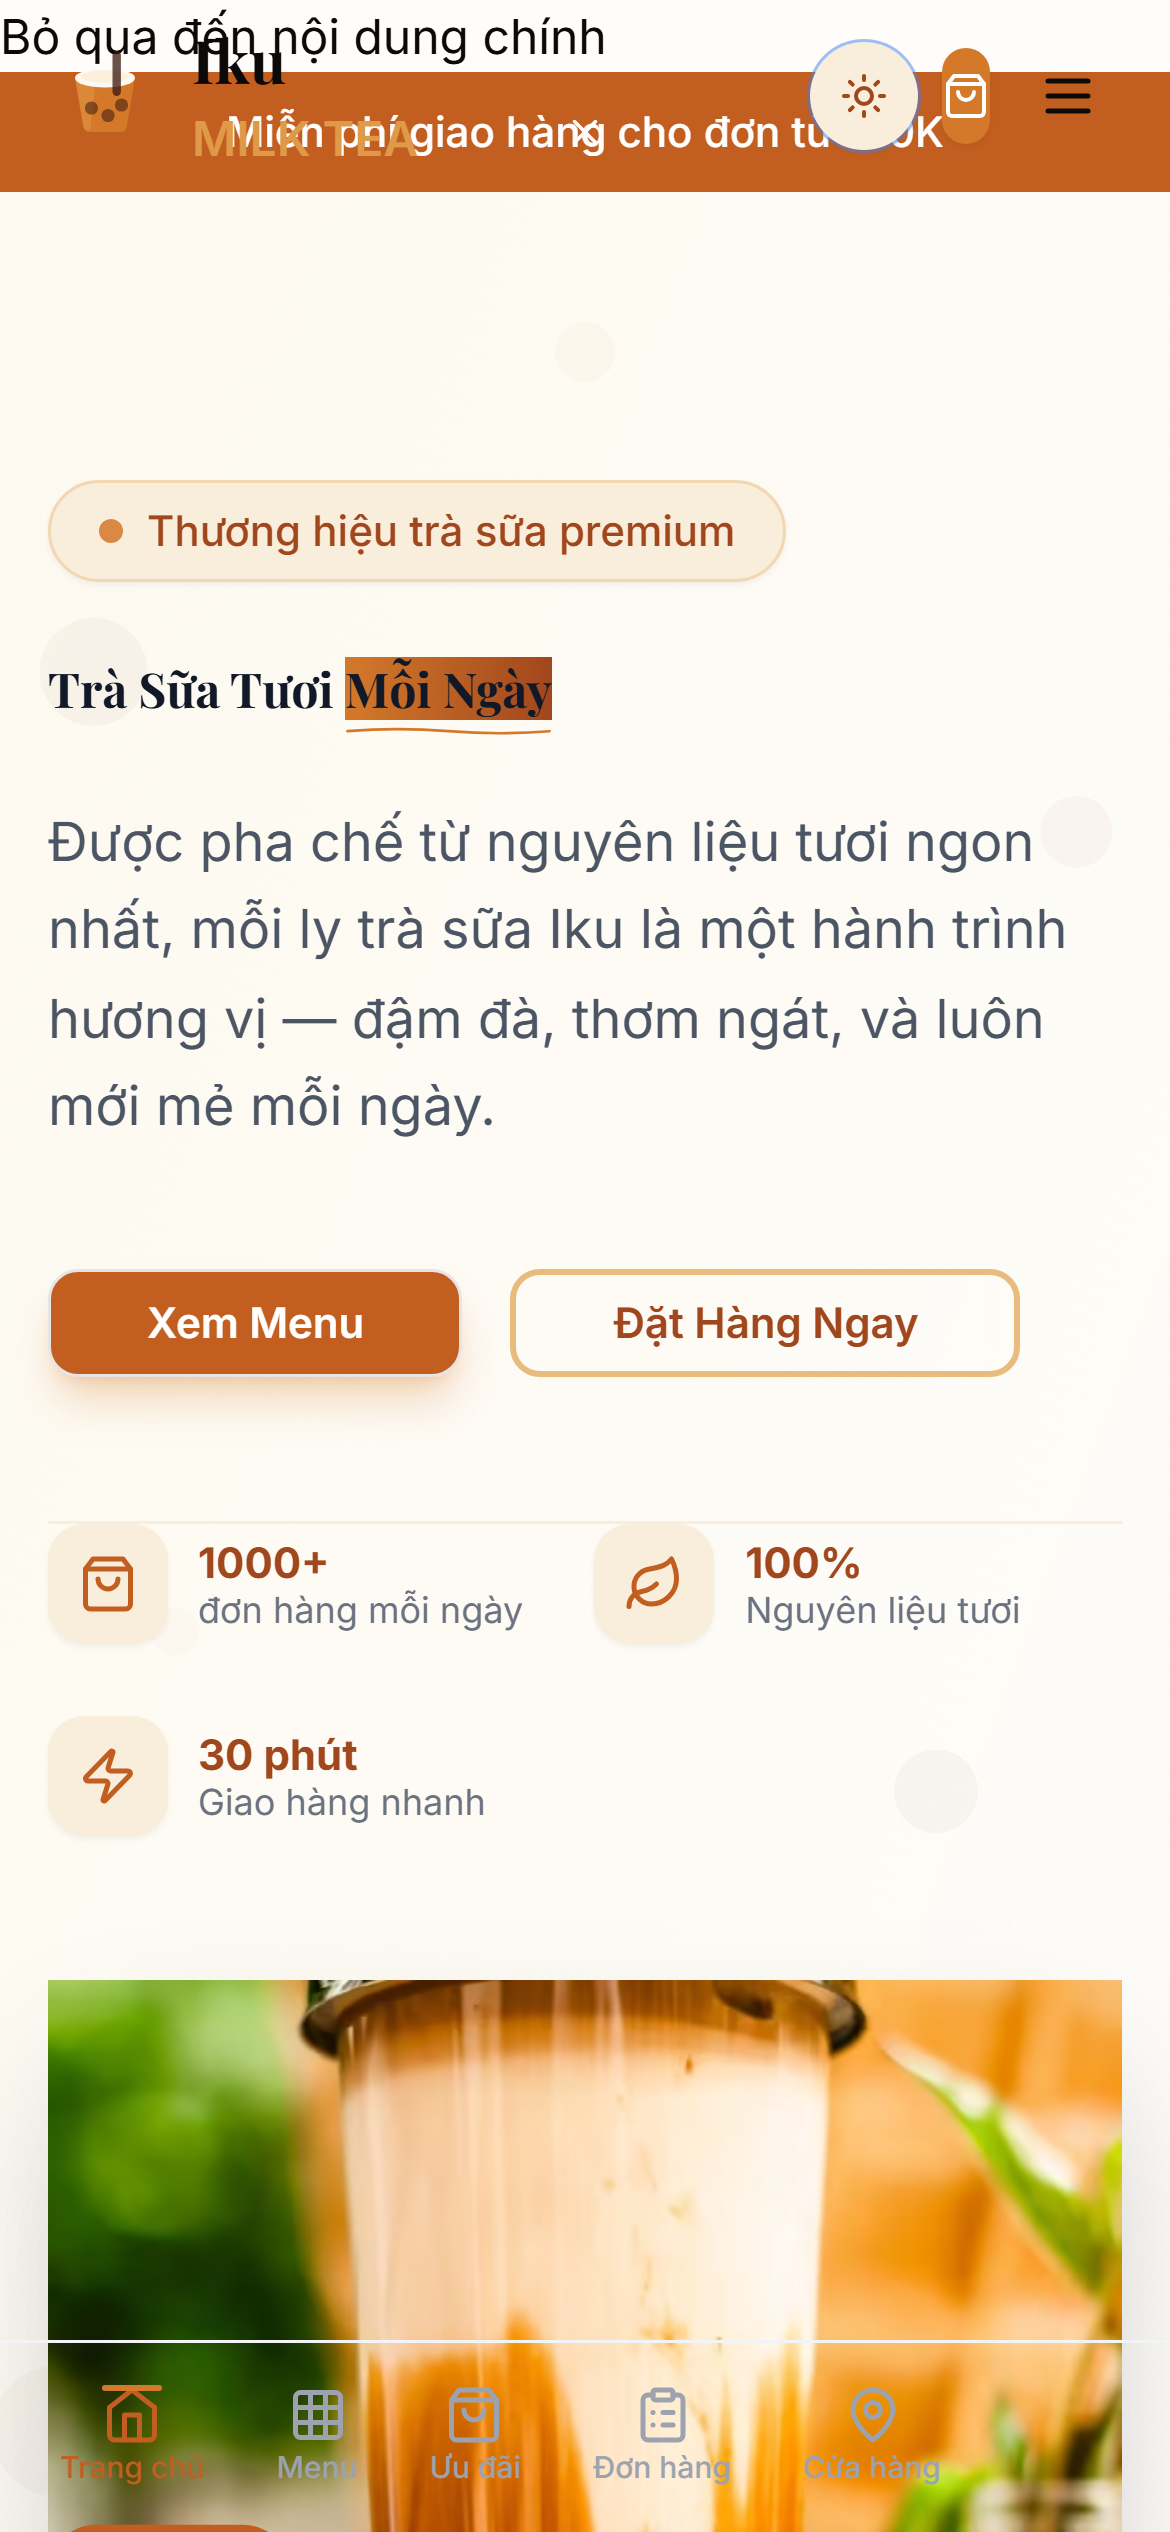
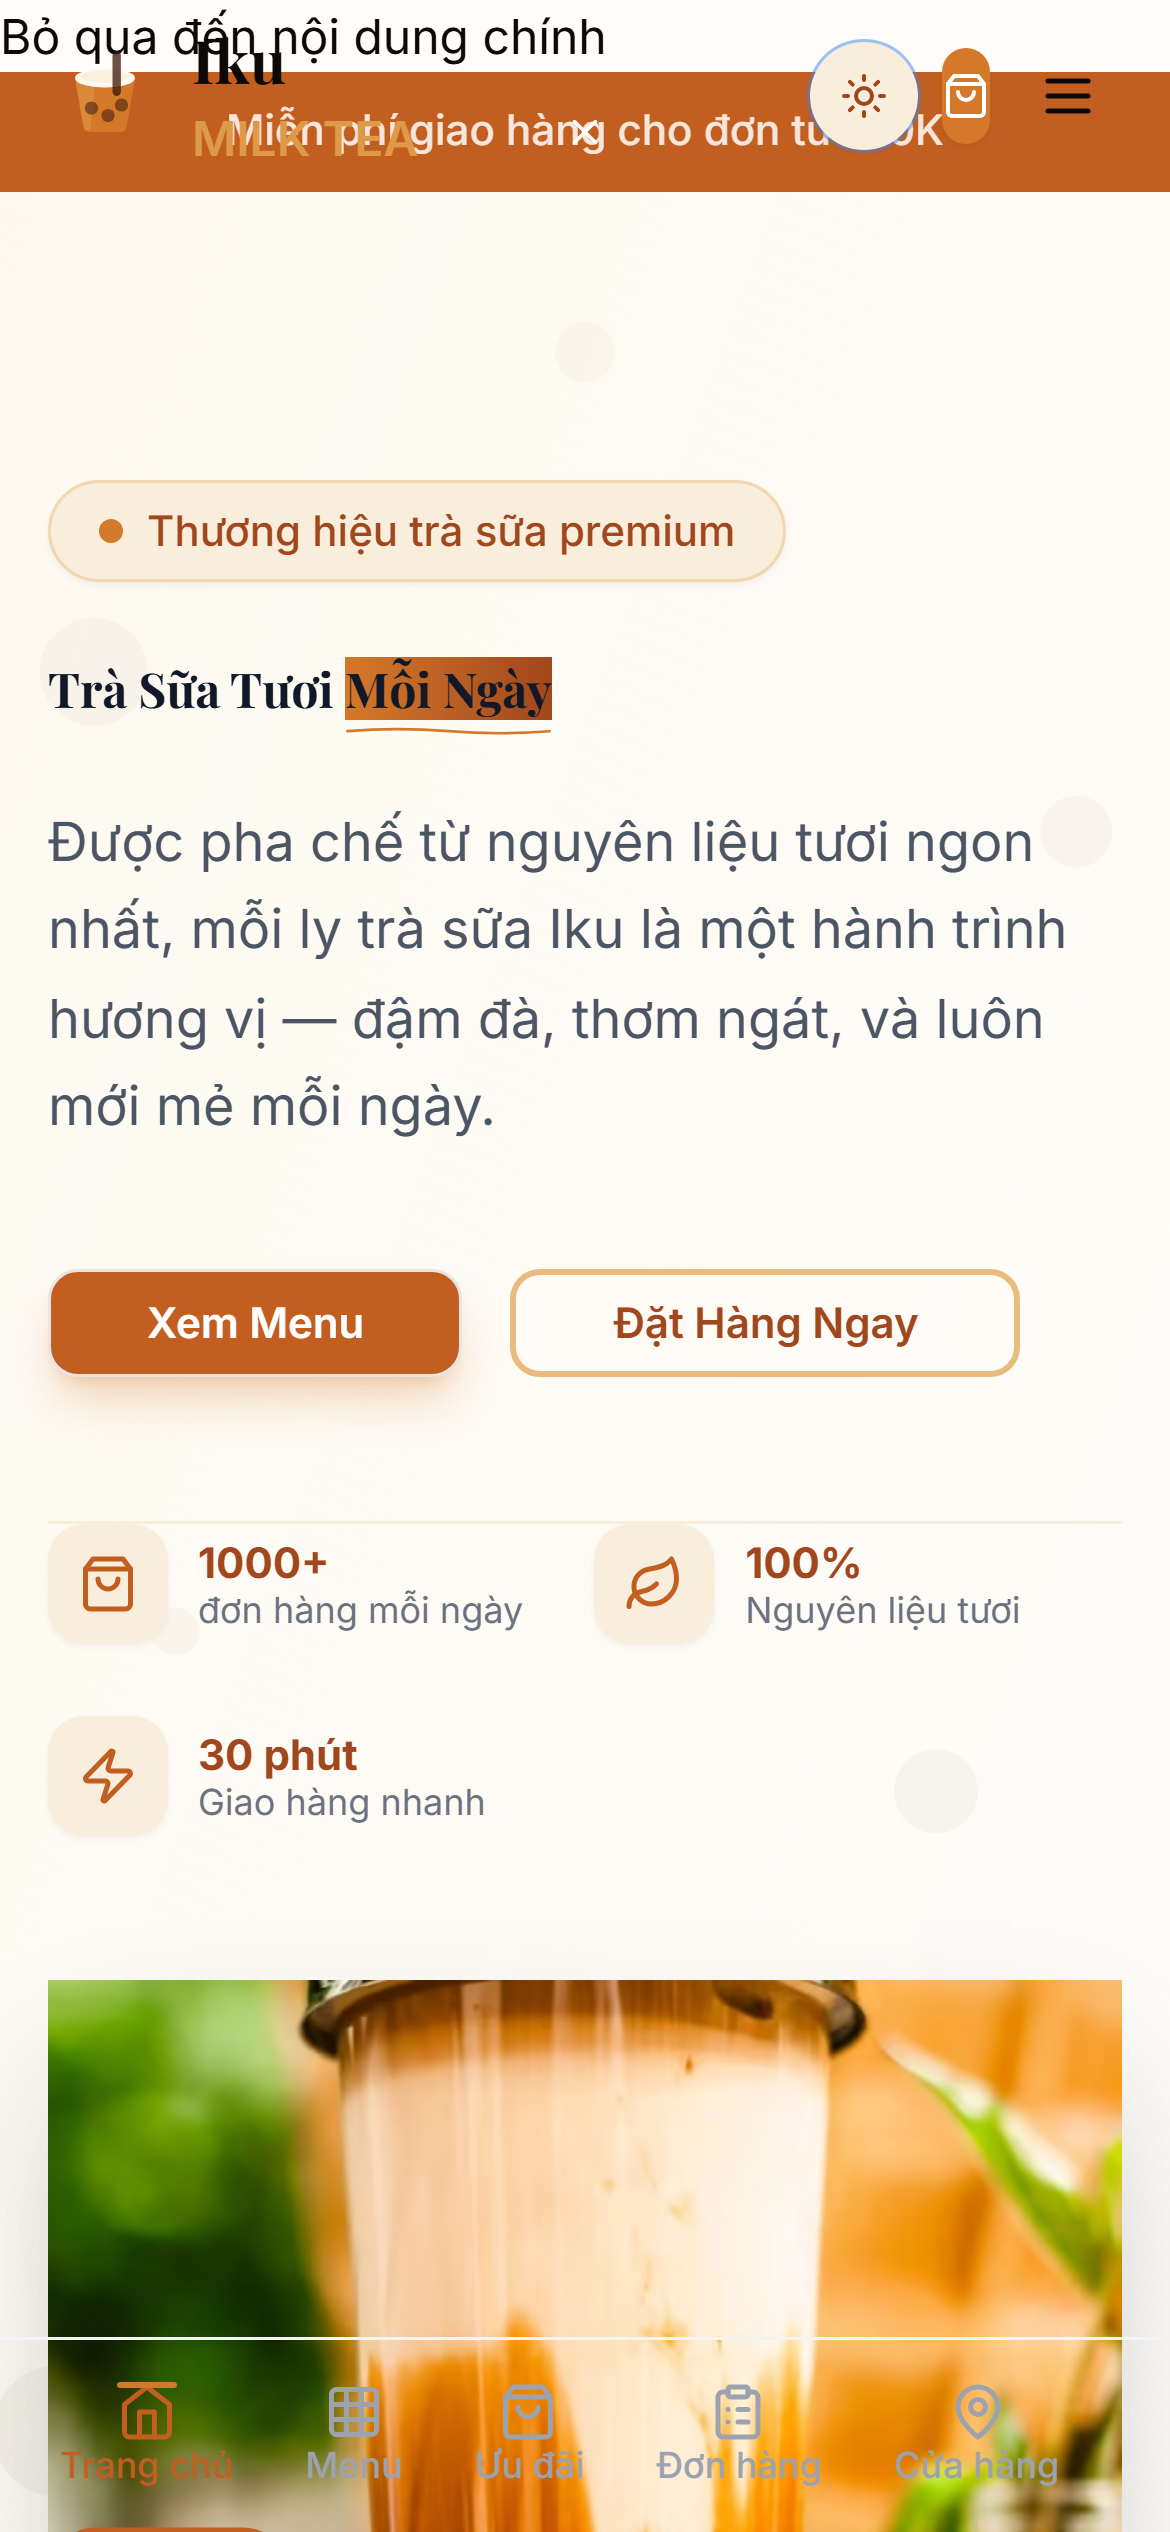
fix: improve dark mode text contrast + recapture screenshots
- Increase text brightness in dark mode (gray-200/300 instead of gray-400)
- Badge, subheadline, trust indicators all more readable
- Recapture all 5 screenshots with proper Unsplash product images

diff --git a/frontend/components/Hero.tsx b/frontend/components/Hero.tsx
@@ -114,7 +114,7 @@ export default function Hero() {
             >
               {/* Badge */}
               <motion.div variants={itemVariants}>
-                <span className="inline-flex items-center gap-2 px-4 py-1.5 bg-brand-100 dark:bg-brand-900/40 border border-brand-200 dark:border-brand-700 text-brand-700 dark:text-brand-300 rounded-full text-sm font-medium mb-6 shadow-sm">
+                <span className="inline-flex items-center gap-2 px-4 py-1.5 bg-brand-100 dark:bg-brand-900/50 border border-brand-200 dark:border-brand-600 text-brand-700 dark:text-brand-200 rounded-full text-sm font-medium mb-6 shadow-sm">
                   <span className="w-2 h-2 rounded-full bg-brand-500 animate-pulse" />
                   Thương hiệu trà sữa premium
                 </span>
@@ -155,7 +155,7 @@ export default function Hero() {
               {/* Subheadline */}
               <motion.p
                 variants={itemVariants}
-                className="text-lg sm:text-xl text-gray-600 dark:text-gray-400 leading-relaxed mb-10 max-w-md"
+                className="text-lg sm:text-xl text-gray-600 dark:text-gray-200 leading-relaxed mb-10 max-w-md"
               >
                 Được pha chế từ nguyên liệu tươi ngon nhất, mỗi ly trà sữa Iku
                 là một hành trình hương vị — đậm đà, thơm ngát, và luôn mới mẻ
@@ -190,10 +190,10 @@ export default function Hero() {
                       {item.icon}
                     </div>
                     <div>
-                      <div className="text-sm font-bold text-brand-700 dark:text-brand-300 leading-tight">
+                      <div className="text-sm font-bold text-brand-700 dark:text-brand-200 leading-tight">
                         {item.value}
                       </div>
-                      <div className="text-xs text-gray-500 dark:text-gray-400 leading-tight">
+                      <div className="text-xs text-gray-500 dark:text-gray-300 leading-tight">
                         {item.label}
                       </div>
                     </div>
